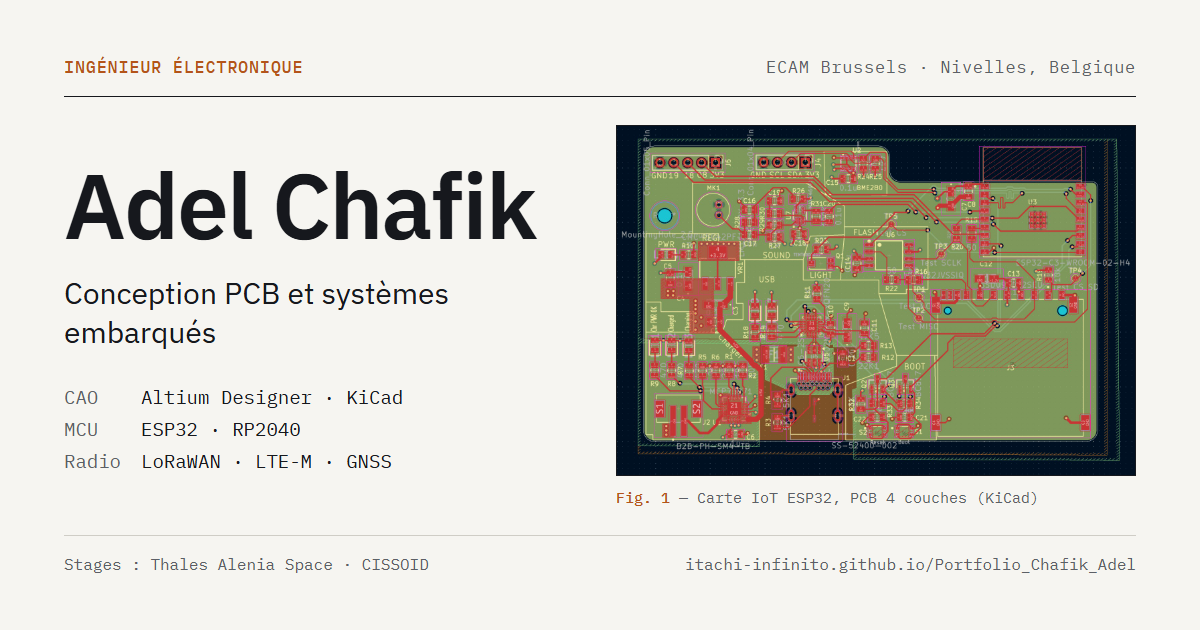
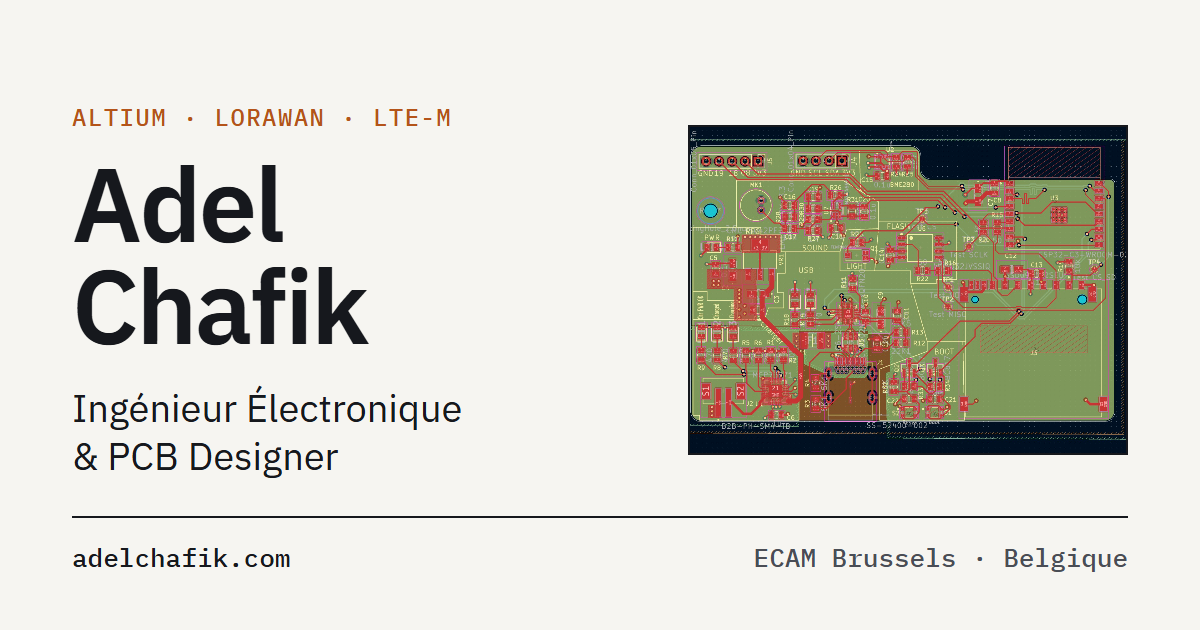
Feat: og-image lisible en aperçu réduit, avec adelchafik.com
- Titre « Ingénieur Électronique & PCB Designer », texte ≥ 24 px
  (l'aperçu LinkedIn réduit l'image à ~45 %)
- URL du nouveau domaine

diff --git a/Portfolio_Chafik_Adel/scripts/og-image.html b/Portfolio_Chafik_Adel/scripts/og-image.html
@@ -1,6 +1,7 @@
 <!doctype html>
 <!--
   Gabarit de l'image de partage (Open Graph), 1200 × 630.
+  Tailles de texte ≥ 24 px : l'aperçu LinkedIn affiche l'image à ~45 %.
   Régénérer depuis le dossier Portfolio_Chafik_Adel/ :
     "C:/Program Files/Google/Chrome/Application/chrome.exe" --headless=new --hide-scrollbars \
       --window-size=1200,630 --virtual-time-budget=5000 \
@@ -9,13 +10,12 @@
 <html lang="fr">
 <head>
 <meta charset="utf-8" />
-<link rel="stylesheet" href="https://fonts.googleapis.com/css2?family=IBM+Plex+Mono:wght@400;500&family=IBM+Plex+Sans:wght@400;600&display=swap" />
+<link rel="stylesheet" href="https://fonts.googleapis.com/css2?family=IBM+Plex+Mono:wght@500&family=IBM+Plex+Sans:wght@400;600&display=swap" />
 <style>
   :root {
     --paper:  #F6F5F1;
     --ink:    #16181D;
-    --muted:  #5C5F66;
-    --rule:   #CFCDC6;
+    --muted:  #4A4D55;
     --copper: #B4541A;
   }
   * { box-sizing: border-box; margin: 0; padding: 0; }
@@ -24,85 +24,54 @@
     background: var(--paper);
     color: var(--ink);
     font-family: 'IBM Plex Sans', sans-serif;
-    padding: 56px 64px;
+    padding: 64px 72px 56px;
     display: grid;
-    grid-template-columns: 1fr 520px;
-    grid-template-rows: auto 1fr auto;
+    grid-template-columns: 1fr 440px;
+    grid-template-rows: 1fr auto;
     column-gap: 56px;
   }
-  .mono { font-family: 'IBM Plex Mono', monospace; }
-
-  .top {
-    grid-column: 1 / -1;
-    display: flex;
-    justify-content: space-between;
-    padding-bottom: 18px;
-    border-bottom: 1px solid var(--ink);
-    font-size: 17px;
-    letter-spacing: 0.04em;
-  }
-  .top .label { color: var(--copper); font-weight: 500; }
-  .top .where { color: var(--muted); }
+  .mono { font-family: 'IBM Plex Mono', monospace; font-weight: 500; }
 
   .id { align-self: center; }
-  h1 { font-size: 92px; font-weight: 600; line-height: 1; letter-spacing: -0.02em; }
-  .role { margin-top: 22px; font-size: 30px; line-height: 1.3; }
-  .tools {
-    margin-top: 34px;
-    display: grid;
-    grid-template-columns: max-content 1fr;
-    column-gap: 20px;
-    row-gap: 8px;
-    font-size: 19px;
-  }
-  .tools dt { color: var(--muted); }
+  .label { font-size: 24px; letter-spacing: 0.06em; color: var(--copper); }
+  h1 { margin-top: 20px; font-size: 104px; font-weight: 600; line-height: 0.98; letter-spacing: -0.025em; }
+  .role { margin-top: 28px; font-size: 38px; line-height: 1.25; }
 
-  figure { grid-row: 2; grid-column: 2; align-self: center; }
+  figure { align-self: center; }
   figure img {
     display: block;
-    width: 520px;
-    height: 351px;
+    width: 440px;
+    height: 330px;
     object-fit: cover;
-    border: 1px solid var(--ink);
+    border: 2px solid var(--ink);
   }
-  figcaption { margin-top: 12px; font-size: 15px; color: var(--muted); }
-  figcaption b { color: var(--copper); font-weight: 500; }
 
   .bottom {
     grid-column: 1 / -1;
     display: flex;
     justify-content: space-between;
-    padding-top: 18px;
-    border-top: 1px solid var(--rule);
-    font-size: 16px;
+    padding-top: 22px;
+    border-top: 2px solid var(--ink);
+    font-size: 26px;
     color: var(--muted);
   }
+  .bottom .url { color: var(--ink); }
 </style>
 </head>
 <body>
-  <div class="top mono">
-    <span class="label">INGÉNIEUR ÉLECTRONIQUE</span>
-    <span class="where">ECAM Brussels · Nivelles, Belgique</span>
-  </div>
-
   <div class="id">
-    <h1>Adel Chafik</h1>
-    <p class="role">Conception PCB et systèmes embarqués</p>
-    <dl class="tools mono">
-      <dt>CAO</dt><dd>Altium Designer · KiCad</dd>
-      <dt>MCU</dt><dd>ESP32 · RP2040</dd>
-      <dt>Radio</dt><dd>LoRaWAN · LTE-M · GNSS</dd>
-    </dl>
+    <p class="label mono">ALTIUM · LORAWAN · LTE-M</p>
+    <h1>Adel<br />Chafik</h1>
+    <p class="role">Ingénieur Électronique<br />&amp; PCB Designer</p>
   </div>
 
   <figure>
     <img src="../public/images/projects/esp32-iot/pcb.jpg" alt="" />
-    <figcaption class="mono"><b>Fig. 1</b> — Carte IoT ESP32, PCB 4 couches (KiCad)</figcaption>
   </figure>
 
   <div class="bottom mono">
-    <span>Stages : Thales Alenia Space · CISSOID</span>
-    <span>itachi-infinito.github.io/Portfolio_Chafik_Adel</span>
+    <span class="url">adelchafik.com</span>
+    <span>ECAM Brussels · Belgique</span>
   </div>
 </body>
 </html>
